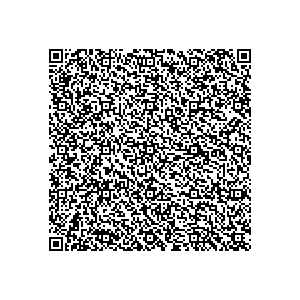
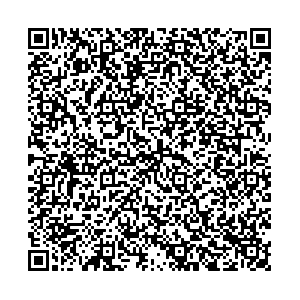
expired certificate test data updated

diff --git a/CV/1.3.0/3/README.md b/CV/1.3.0/3/README.md
@@ -8,27 +8,27 @@
 
 ### Conteúdo / Content
 
-`/PA1100054/HC1:NCFOXNYTS3DHVQGF0L:7S$HFMF5+K1UV0EZHSN9HXKMJJT+55B9G+V1BOZEJW33-MPW$NLEEMJC7ZSC KXU7*$K3$OHBW24FAL86H0CNCRK40YQNPM Q5TM8*N9YJ26H02 U9ZI4Q56EKX2MR85EV40ATCC7EV4*2DR9DU*0CEBQ/GXQF8$GCIB:4H$73  0 A7GMJ1XVOFJWLFOIVE%82OJY%8UW80KFIJ3B/S7-SN2H N37J3JFTULJ5CB3ZCL0B NVV5TN%2LXKV*CCN5-XKSN0H/I2KPAW1NV2OH6YJAVQI*WU0*VIRI $U/E2:ISUE9.955B9-NT0 2$$0$2PK8LSZ4RZ4E%5B/9HN5VBIUM9$PP9$PDB9J*AOVP9.P%H9+8E8.P%E9D$PMK9FUO*IJD%1OZJ:TU+M53UQ7541-ST*QGTAAY7.Y7G+SB.V Q5FN96J0XI05545VCGKTG2G$8US6UUDR0A5/6G43EQ+VC4F9UO0WK+W7:YO8-33-7R%CEOROOKS KJ8PNHIVIPT5D %SCU3P%79SLP8V0Z9PIN35T HST*L7RK4UDUKJT4SC-AM8O3VD8ETJ4VM/S7SH%-AJ4FPAW7SC.EFW2RNSJ0+D8MNK25ZDQ1 1/V35FVJ8R%Z5XKO1BH/+L AHE9VD4KO6LHR1QEF9XB5T7WKL+-T/31Y$FHSHJSD4SDZ+RV*E02G**OB1B4%RB-F7R0BCORZM1SMXJT*.P8/6NCQ1EL*GV78B5/V82CKCTR+B$*L1F2*$UP+3OFC8Z3%B4XO7 7VH.DTBI1$LG659*O-$VGA4D:R.9TL.5I-B09VARJHGDAZU$$A/NNF.I64TV:EF9EP8M2DAR*M8PUSI3EKO2UU`
+`HC1:NCFA60NG0/3WUWGVLKE797/IZ-S8/HKGLH479CKV503XK3F39FTJRK3F39FTERK0JCN+AY50.FK6ZK7:EDOLFVCPD0B$D% D3IA4W5646946846.966KCN9E%961A6DL6FA7D46XJCCWENF6OF63W59%6QF6WJCT3E3N8WJC0FD6A5AIA%G7X+AQB9F+AKG7O+AJ%6H:6A+9:W6809V*89IA4Y8G1A9+847ARHA009.JCP9EJY8L/5M/5 96.96WF6%JCOQE+Y9OSSZRIQ+93KC.SC4KCD3DX47B46IL6646I*6..DX%DLPCG/D* D2Y8BIA5S7GY87Y8.HAZJC9/DG7AJVC82EG7AZKE*ED1ECI3D6WEXH9WNA JC1/DKI9PSESILO/EZKEZ967L6C56GVC*JC1A6Y473W5+/6+96FBBI10QOI$A7JZIQ673EUY4BCTOU65 AF.FTWTL0I6B O9GMX9T-JD 1N06M7DF60AIME HN.133/D%D5ZP6C A $N:*A+VC-G9OZK5%VS+7QPLED2U0FX CNDIL%9*3SJM7 G25+DFELF56J F02NOHF 0A.1W/G3//NS6I62G-:Q8YQ4GI6XP:5B..AD2V1.C8J3EZ4+9EFZPUCM.Q36RKZ1CD1JVJC/.7$DUB-HEGMXYDMDO0L8G0H5U9:HM%Y21SEU38C68P:6VWDC19.4AJ035A8:06U$SEUP6ZS36NGK0$OA32T4032BT1281JTY-7M%O-2O IB41NFSHYU2 MOW.OH223.F%32J1GEL11BA1NJ4URDAUG%O2RHG8BD1W:9P+9L/0`
 
 ### Step 5 Prefixed
 
-`HC1:NCFOXNYTS3DHVQGF0L:7S$HFMF5+K1UV0EZHSN9HXKMJJT+55B9G+V1BOZEJW33-MPW$NLEEMJC7ZSC KXU7*$K3$OHBW24FAL86H0CNCRK40YQNPM Q5TM8*N9YJ26H02 U9ZI4Q56EKX2MR85EV40ATCC7EV4*2DR9DU*0CEBQ/GXQF8$GCIB:4H$73  0 A7GMJ1XVOFJWLFOIVE%82OJY%8UW80KFIJ3B/S7-SN2H N37J3JFTULJ5CB3ZCL0B NVV5TN%2LXKV*CCN5-XKSN0H/I2KPAW1NV2OH6YJAVQI*WU0*VIRI $U/E2:ISUE9.955B9-NT0 2$$0$2PK8LSZ4RZ4E%5B/9HN5VBIUM9$PP9$PDB9J*AOVP9.P%H9+8E8.P%E9D$PMK9FUO*IJD%1OZJ:TU+M53UQ7541-ST*QGTAAY7.Y7G+SB.V Q5FN96J0XI05545VCGKTG2G$8US6UUDR0A5/6G43EQ+VC4F9UO0WK+W7:YO8-33-7R%CEOROOKS KJ8PNHIVIPT5D %SCU3P%79SLP8V0Z9PIN35T HST*L7RK4UDUKJT4SC-AM8O3VD8ETJ4VM/S7SH%-AJ4FPAW7SC.EFW2RNSJ0+D8MNK25ZDQ1 1/V35FVJ8R%Z5XKO1BH/+L AHE9VD4KO6LHR1QEF9XB5T7WKL+-T/31Y$FHSHJSD4SDZ+RV*E02G**OB1B4%RB-F7R0BCORZM1SMXJT*.P8/6NCQ1EL*GV78B5/V82CKCTR+B$*L1F2*$UP+3OFC8Z3%B4XO7 7VH.DTBI1$LG659*O-$VGA4D:R.9TL.5I-B09VARJHGDAZU$$A/NNF.I64TV:EF9EP8M2DAR*M8PUSI3EKO2UU`
+`HC1:NCFA60NG0/3WUWGVLKE797/IZ-S8/HKGLH479CKV503XK3F39FTJRK3F39FTERK0JCN+AY50.FK6ZK7:EDOLFVCPD0B$D% D3IA4W5646946846.966KCN9E%961A6DL6FA7D46XJCCWENF6OF63W59%6QF6WJCT3E3N8WJC0FD6A5AIA%G7X+AQB9F+AKG7O+AJ%6H:6A+9:W6809V*89IA4Y8G1A9+847ARHA009.JCP9EJY8L/5M/5 96.96WF6%JCOQE+Y9OSSZRIQ+93KC.SC4KCD3DX47B46IL6646I*6..DX%DLPCG/D* D2Y8BIA5S7GY87Y8.HAZJC9/DG7AJVC82EG7AZKE*ED1ECI3D6WEXH9WNA JC1/DKI9PSESILO/EZKEZ967L6C56GVC*JC1A6Y473W5+/6+96FBBI10QOI$A7JZIQ673EUY4BCTOU65 AF.FTWTL0I6B O9GMX9T-JD 1N06M7DF60AIME HN.133/D%D5ZP6C A $N:*A+VC-G9OZK5%VS+7QPLED2U0FX CNDIL%9*3SJM7 G25+DFELF56J F02NOHF 0A.1W/G3//NS6I62G-:Q8YQ4GI6XP:5B..AD2V1.C8J3EZ4+9EFZPUCM.Q36RKZ1CD1JVJC/.7$DUB-HEGMXYDMDO0L8G0H5U9:HM%Y21SEU38C68P:6VWDC19.4AJ035A8:06U$SEUP6ZS36NGK0$OA32T4032BT1281JTY-7M%O-2O IB41NFSHYU2 MOW.OH223.F%32J1GEL11BA1NJ4URDAUG%O2RHG8BD1W:9P+9L/0`
 
 ### Step 4 Encoded
 
-`NCFOXNYTS3DHVQGF0L:7S$HFMF5+K1UV0EZHSN9HXKMJJT+55B9G+V1BOZEJW33-MPW$NLEEMJC7ZSC KXU7*$K3$OHBW24FAL86H0CNCRK40YQNPM Q5TM8*N9YJ26H02 U9ZI4Q56EKX2MR85EV40ATCC7EV4*2DR9DU*0CEBQ/GXQF8$GCIB:4H$73  0 A7GMJ1XVOFJWLFOIVE%82OJY%8UW80KFIJ3B/S7-SN2H N37J3JFTULJ5CB3ZCL0B NVV5TN%2LXKV*CCN5-XKSN0H/I2KPAW1NV2OH6YJAVQI*WU0*VIRI $U/E2:ISUE9.955B9-NT0 2$$0$2PK8LSZ4RZ4E%5B/9HN5VBIUM9$PP9$PDB9J*AOVP9.P%H9+8E8.P%E9D$PMK9FUO*IJD%1OZJ:TU+M53UQ7541-ST*QGTAAY7.Y7G+SB.V Q5FN96J0XI05545VCGKTG2G$8US6UUDR0A5/6G43EQ+VC4F9UO0WK+W7:YO8-33-7R%CEOROOKS KJ8PNHIVIPT5D %SCU3P%79SLP8V0Z9PIN35T HST*L7RK4UDUKJT4SC-AM8O3VD8ETJ4VM/S7SH%-AJ4FPAW7SC.EFW2RNSJ0+D8MNK25ZDQ1 1/V35FVJ8R%Z5XKO1BH/+L AHE9VD4KO6LHR1QEF9XB5T7WKL+-T/31Y$FHSHJSD4SDZ+RV*E02G**OB1B4%RB-F7R0BCORZM1SMXJT*.P8/6NCQ1EL*GV78B5/V82CKCTR+B$*L1F2*$UP+3OFC8Z3%B4XO7 7VH.DTBI1$LG659*O-$VGA4D:R.9TL.5I-B09VARJHGDAZU$$A/NNF.I64TV:EF9EP8M2DAR*M8PUSI3EKO2UU`
+`NCFA60NG0/3WUWGVLKE797/IZ-S8/HKGLH479CKV503XK3F39FTJRK3F39FTERK0JCN+AY50.FK6ZK7:EDOLFVCPD0B$D% D3IA4W5646946846.966KCN9E%961A6DL6FA7D46XJCCWENF6OF63W59%6QF6WJCT3E3N8WJC0FD6A5AIA%G7X+AQB9F+AKG7O+AJ%6H:6A+9:W6809V*89IA4Y8G1A9+847ARHA009.JCP9EJY8L/5M/5 96.96WF6%JCOQE+Y9OSSZRIQ+93KC.SC4KCD3DX47B46IL6646I*6..DX%DLPCG/D* D2Y8BIA5S7GY87Y8.HAZJC9/DG7AJVC82EG7AZKE*ED1ECI3D6WEXH9WNA JC1/DKI9PSESILO/EZKEZ967L6C56GVC*JC1A6Y473W5+/6+96FBBI10QOI$A7JZIQ673EUY4BCTOU65 AF.FTWTL0I6B O9GMX9T-JD 1N06M7DF60AIME HN.133/D%D5ZP6C A $N:*A+VC-G9OZK5%VS+7QPLED2U0FX CNDIL%9*3SJM7 G25+DFELF56J F02NOHF 0A.1W/G3//NS6I62G-:Q8YQ4GI6XP:5B..AD2V1.C8J3EZ4+9EFZPUCM.Q36RKZ1CD1JVJC/.7$DUB-HEGMXYDMDO0L8G0H5U9:HM%Y21SEU38C68P:6VWDC19.4AJ035A8:06U$SEUP6ZS36NGK0$OA32T4032BT1281JTY-7M%O-2O IB41NFSHYU2 MOW.OH223.F%32J1GEL11BA1NJ4URDAUG%O2RHG8BD1W:9P+9L/0`
 
 ### Step 3 Compressed
 
-`[120, -38, -69, -44, -30, -73, -120, -59, -125, 65, -90, 44, -34, -29, 121, -55, 42, 70, 11, -107, 5, -111, -116, -82, 75, 88, -92, 18, -103, -72, 46, -78, 73, 37, -4, 79, -65, -56, -104, -28, 24, 98, -55, -56, -68, -112, 113, 73, 98, 89, -29, -86, -92, -108, 60, -58, -92, -36, -60, 92, -1, 32, 119, 93, 67, 3, 3, 3, 99, 3, 35, 67, -45, -92, -78, -126, 44, 67, 67, 67, 75, 99, 19, 75, 3, 3, -13, -92, -108, -110, 44, 35, -96, -80, -82, -127, 41, 16, 37, 37, -25, 39, 57, -121, 37, 37, 103, 86, 104, -123, 6, -7, 89, -123, -122, 57, 123, 90, -123, 25, 90, 57, -121, 89, 25, 27, 6, 120, 57, 69, -102, 57, -5, 5, -103, 6, 122, 120, -8, 121, 70, 4, -102, -123, 70, 24, 69, 6, 122, 43, 27, 36, -27, 22, -28, -72, -122, -22, 27, -22, 27, 25, -24, 27, -102, 26, 89, 36, 101, 22, 87, 24, -7, 102, -26, 101, 22, -105, -92, 22, 101, -26, 43, -92, -92, 42, 4, 39, -106, 2, -55, 71, 13, -109, 21, 92, 50, -117, 82, -109, -109, 19, -13, 21, -4, 18, -109, 51, -13, -13, 18, 115, -32, -46, 73, -59, 41, 76, 73, 37, -23, -103, 22, 38, 6, -90, -58, 64, -89, -103, 37, -25, 37, -26, 46, 73, 78, -53, 43, -87, -112, 112, 75, 45, -54, 75, -52, 75, 73, 45, 86, 8, -53, 76, -51, 44, 74, 84, 112, 78, -51, 43, 73, -51, -52, 79, 74, -53, -61, 45, -103, -100, 14, -92, -100, -118, -14, -109, 43, -109, -46, -13, 32, -116, -28, -78, -44, -94, 84, 67, 61, 99, 61, -125, -28, -108, -4, -92, 44, 67, 75, 75, 3, 93, 3, 75, 32, -118, 100, 100, -24, -7, 126, -6, -18, -37, -18, 120, -41, -6, 41, 79, 127, -55, 111, 73, -4, 89, 119, 103, -61, 39, -93, -44, 61, 39, -61, -2, 30, -8, 62, -105, 101, -75, -39, -39, -94, -124, -92, -92, -57, 60, -111, 118, -55, 10, 103, -45, -28, 78, 29, 13, 62, 38, -85, 18, -10, -72, 77, 88, -71, 50, -26, 73, -32, -99, -83, 21, -94, -6, 108, 31, -103, -19, -34, 77, 86, 91, -65, 86, 108, 75, -25, -29, -11, -2, -27, 33, -117, 108, 86, 117, 119, 110, -2, -5, 99, -33, 121, 71, -42, 13, -101, 78, 109, -35, -71, -43, 39, -5, -48, 22, 14, 62, 29, 89, -9, -33, -41, 14, 45, -38, -63, 125, -120, 105, -83, 80, -120, 95, -10, -38, -98, -11, -89, 67, 12, -71, 121, 55, 92, -39, 60, 125, -87, -63, -20, -62, 8, -101, 125, 74, -117, 118, 107, -44, 107, -59, -36, -66, 117, -72, 126, -22, -60, -38, 87, 59, -36, 69, 125, -25, 4, -58, -65, -1, -76, 72, -78, -13, -24, -35, -51, 74, 55, 13, -49, -35, -88, -108, -8, 46, 88, 114, -4, -53, 95, 78, -25, -107, 94, 38, -83, 29, 18, 118, -13, -10, 30, -36, 97, -89, 29, -22, 33, -71, 59, -72, -10, -106, 110, 72, -112, 110, -84, -97, 40, -85, -60, -68, -5, -31, 33, 118, -35, 92, -25, 36, 47, 4, 94, 74, -10, -52, -101, 20, 105, -74, -13, 127, 85, -64, -70, 37, -107, -45, -26, 31, 118, -103, 112, 98, -81, -121, 81, 101, -76, -4, -15, -69, 27, 1, -63, 106, -14, -106]`
+`[120, -38, 1, 24, 2, -25, -3, -46, -124, 78, -94, 4, 72, 122, -107, -8, -28, -44, -114, 16, -87, 1, 56, 36, -96, 89, 1, 0, -92, 4, 26, 97, -24, 17, -93, 6, 26, 97, -24, 17, -93, 1, 98, 67, 86, 57, 1, 3, -95, 1, -92, 97, 118, -127, -86, 98, 100, 110, 2, 98, 109, 97, 109, 79, 82, 71, 45, 49, 48, 48, 48, 51, 48, 50, 49, 53, 98, 118, 112, 106, 49, 49, 49, 57, 51, 52, 57, 48, 48, 55, 98, 100, 116, 106, 50, 48, 50, 49, 45, 48, +447 more]`
 
 ### Step 2 Cose
 
-`[-46, -124, 78, -94, 4, 72, 0, 28, 118, 95, 72, -25, 116, -86, 1, 56, 36, -96, 89, 1, 69, -92, 4, 26, 97, 2, 10, -47, 6, 26, 96, -1, 103, -47, 1, 98, 65, 84, 57, 1, 3, -95, 1, -92, 97, 118, -127, -86, 98, 100, 110, 1, 98, 109, 97, 109, 79, 82, 71, 45, 49, 48, 48, 48, 51, 48, 50, 49, 53, 98, 118, 112, 106, 49, 49, 49, 57, 51, 52, 57, 48, 48, 55, 98, 100, 116, 106, 50, 48, 50, 49, 45, 48, 53, 45, 48, 53, 98, 99, 111, 98, 67, 86, 98, 99, 105, 120, 42, 85, 82, 78, 58, 85, 86, 67, 73, 58, 86, 49, 58, 67, 86, 58, 51, 49, 80, 74, 66, 89, 54, 67, 78, 82, 53, 81, 72, 72, 78, 73, 88, 81, 54, 85, 88, 50, 89, 81, 75, 35, 48, 98, 109, 112, 108, 69, 85, 47, 49, 47, 50, 48, 47, 49, 53, 50, 56, 98, 105, 115, 120, 50, 77, 105, 110, 105, 115, 116, 101, 114, 105, 111, 32, 100, 101, 32, 83, 97, 117, 100, 101, 32, -30, -128, -109, 32, 68, 105, 114, 101, 99, 99, 97, 111, 32, 78, 97, 99, 105, 111, 110, 97, 108, 32, 100, 101, 32, 83, 97, 117, 100, 101, 98, 115, 100, 2, 98, 116, 103, 105, 56, 52, 48, 53, 51, 57, 48, 48, 54, 99, 110, 97, 109, -92, 99, 102, 110, 116, 120, 24, 70, 101, 114, 110, 97, 110, 100, 101, 115, 32, 86, 105, 101, 105, 114, 97, 32, 67, 101, 110, 116, 101, 105, 111, 98, 102, 110, 120, 24, 70, 101, 114, 110, 97, 110, 100, 101, 115, 32, 86, 105, 101, 105, 114, 97, 32, 67, 101, 110, 116, 101, 105, 111, 99, 103, 110, 116, 101, 66, 114, 111, 99, 121, 98, 103, 110, 101, 66, 114, 111, 99, 121, 99, 118, 101, 114, 101, 49, 46, 51, 46, 48, 99, 100, 111, 98, 106, 49, 57, 57, 48, 45, 48, 57, 45, 48, 57, 89, 1, 0, -116, -9, -53, -35, -19, -117, 95, 69, 127, -108, -27, -6, 31, -76, 97, -7, 126, -36, -80, -14, 50, 101, -68, -55, 86, -3, -64, -9, -99, 4, -85, 54, -51, 114, 96, 98, 98, -29, 12, 89, 62, 99, 32, -51, 102, 30, -54, -59, 83, -58, 29, 36, 86, -29, -122, 19, 35, 121, 92, -28, 81, -36, -75, 120, 21, 47, 6, -15, 3, 62, -18, -109, 38, -81, -83, 22, -76, -119, -29, -81, 79, 119, 84, -94, 60, -86, -117, -119, -77, -3, -8, -66, -49, 65, 5, -80, -78, -54, -75, -71, -75, 76, 107, -62, -76, 8, 14, 44, 29, 71, -5, -42, -62, -94, -72, 11, -62, 2, -83, 18, 84, 78, 107, -83, -116, -81, -53, 84, 49, 11, 13, -80, -44, -77, -105, -91, 48, -101, 113, 88, 60, -66, 34, -94, -69, 40, 127, 42, 92, -37, -38, -61, 127, -107, -111, 125, -22, -72, 71, 21, 77, -100, 81, 95, -17, -14, -94, 25, -119, -59, -35, -77, 34, -39, 49, -50, -40, 121, 24, -9, 17, 116, -57, -12, -3, 9, 67, -87, 74, 52, -123, -120, 24, 62, -98, -67, -63, -72, 62, 43, 85, 72, 25, -69, 83, 125, -38, 45, 84, 82, 45, 93, 78, 21, 5, 24, -98, -33, 87, 84, 62, -117, 10, -50, 25, -48, 81, -46, 99, 73, 110, -110, 89, 54, -71, -1, 122, 80, -82, -92, 121, -106, -97, -61, 68, -112, -56, -67, 72, 50, 121, 91, 31, -57, -35, -79]`
+`[-46, -124, 78, -94, 4, 72, 122, -107, -8, -28, -44, -114, 16, -87, 1, 56, 36, -96, 89, 1, 0, -92, 4, 26, 97, -24, 17, -93, 6, 26, 97, -24, 17, -93, 1, 98, 67, 86, 57, 1, 3, -95, 1, -92, 97, 118, -127, -86, 98, 100, 110, 2, 98, 109, 97, 109, 79, 82, 71, 45, 49, 48, 48, 48, 51, 48, 50, 49, 53, 98, 118, 112, 106, 49, 49, 49, 57, 51, 52, 57, 48, 48, 55, 98, 100, 116, 106, 50, 48, 50, 49, 45, 48, 54, 45, 50, 51, 98, 99, 111, +436 more]`
 
 ### Step 1 Cwt
 
-`[-92, 4, 26, 97, 2, 10, -47, 6, 26, 96, -1, 103, -47, 1, 98, 65, 84, 57, 1, 3, -95, 1, -92, 97, 118, -127, -86, 98, 100, 110, 1, 98, 109, 97, 109, 79, 82, 71, 45, 49, 48, 48, 48, 51, 48, 50, 49, 53, 98, 118, 112, 106, 49, 49, 49, 57, 51, 52, 57, 48, 48, 55, 98, 100, 116, 106, 50, 48, 50, 49, 45, 48, 53, 45, 48, 53, 98, 99, 111, 98, 67, 86, 98, 99, 105, 120, 42, 85, 82, 78, 58, 85, 86, 67, 73, 58, 86, 49, 58, 67, 86, 58, 51, 49, 80, 74, 66, 89, 54, 67, 78, 82, 53, 81, 72, 72, 78, 73, 88, 81, 54, 85, 88, 50, 89, 81, 75, 35, 48, 98, 109, 112, 108, 69, 85, 47, 49, 47, 50, 48, 47, 49, 53, 50, 56, 98, 105, 115, 120, 50, 77, 105, 110, 105, 115, 116, 101, 114, 105, 111, 32, 100, 101, 32, 83, 97, 117, 100, 101, 32, -30, -128, -109, 32, 68, 105, 114, 101, 99, 99, 97, 111, 32, 78, 97, 99, 105, 111, 110, 97, 108, 32, 100, 101, 32, 83, 97, 117, 100, 101, 98, 115, 100, 2, 98, 116, 103, 105, 56, 52, 48, 53, 51, 57, 48, 48, 54, 99, 110, 97, 109, -92, 99, 102, 110, 116, 120, 24, 70, 101, 114, 110, 97, 110, 100, 101, 115, 32, 86, 105, 101, 105, 114, 97, 32, 67, 101, 110, 116, 101, 105, 111, 98, 102, 110, 120, 24, 70, 101, 114, 110, 97, 110, 100, 101, 115, 32, 86, 105, 101, 105, 114, 97, 32, 67, 101, 110, 116, 101, 105, 111, 99, 103, 110, 116, 101, 66, 114, 111, 99, 121, 98, 103, 110, 101, 66, 114, 111, 99, 121, 99, 118, 101, 114, 101, 49, 46, 51, 46, 48, 99, 100, 111, 98, 106, 49, 57, 57, 48, 45, 48, 57, 45, 48, 57]`
+`[-92, 4, 26, 97, -24, 17, -93, 6, 26, 97, -24, 17, -93, 1, 98, 67, 86, 57, 1, 3, -95, 1, -92, 97, 118, -127, -86, 98, 100, 110, 2, 98, 109, 97, 109, 79, 82, 71, 45, 49, 48, 48, 48, 51, 48, 50, 49, 53, 98, 118, 112, 106, 49, 49, 49, 57, 51, 52, 57, 48, 48, 55, 98, 100, 116, 106, 50, 48, 50, 49, 45, 48, 54, 45, 50, 51, 98, 99, 111, 98, 67, 86, 98, 99, 105, 120, 41, 85, 82, 78, 58, 85, 86, 67, 73, 58, 86, 49, 58, 67, +156 more]`
 
 ### Raw
 
@@ -36,8 +36,9 @@
 
 ### Verification Result
 
-`VerificationResult(expirationTime=2021-07-29T01:56:33Z, issuedAt=2021-07-27T01:56:33Z, issuer=AT, certificateValidFrom=2021-07-22T20:49:42Z, certificateValidUntil=2022-03-07T11:14:34Z, certificateValidContent=[TEST, VACCINATION, RECOVERY], certificateSubjectCountry=gov, content=[], error=CWT_EXPIRED, errorDetails={expirationTime=2021-07-29T01:56:33Z, currentTime=2021-08-03T18:48:15.676Z})`
+`VerificationResult(expirationTime=2022-01-19T13:26:59Z, issuedAt=2022-01-19T13:26:59Z, issuer=CV, certificateValidFrom=2021-08-16T01:35:35Z, certificateValidUntil=2026-08-15T01:35:35Z, certificateValidContent=[TEST, VACCINATION, RECOVERY], certificateSubjectCountry=gov, content=[], error=CWT_EXPIRED, errorDetails={expirationTime=2022-01-19T13:26:59Z, currentTime=2022-01-19T13:40:12.209Z})`
 
 ### Resultado / Result
 
-![alt text](result.png "3 - Resultado")
+![alt text](result-android.png "3 - Resultado Android")
+![alt text](result-ios.png "3 - Resultado iOS")
